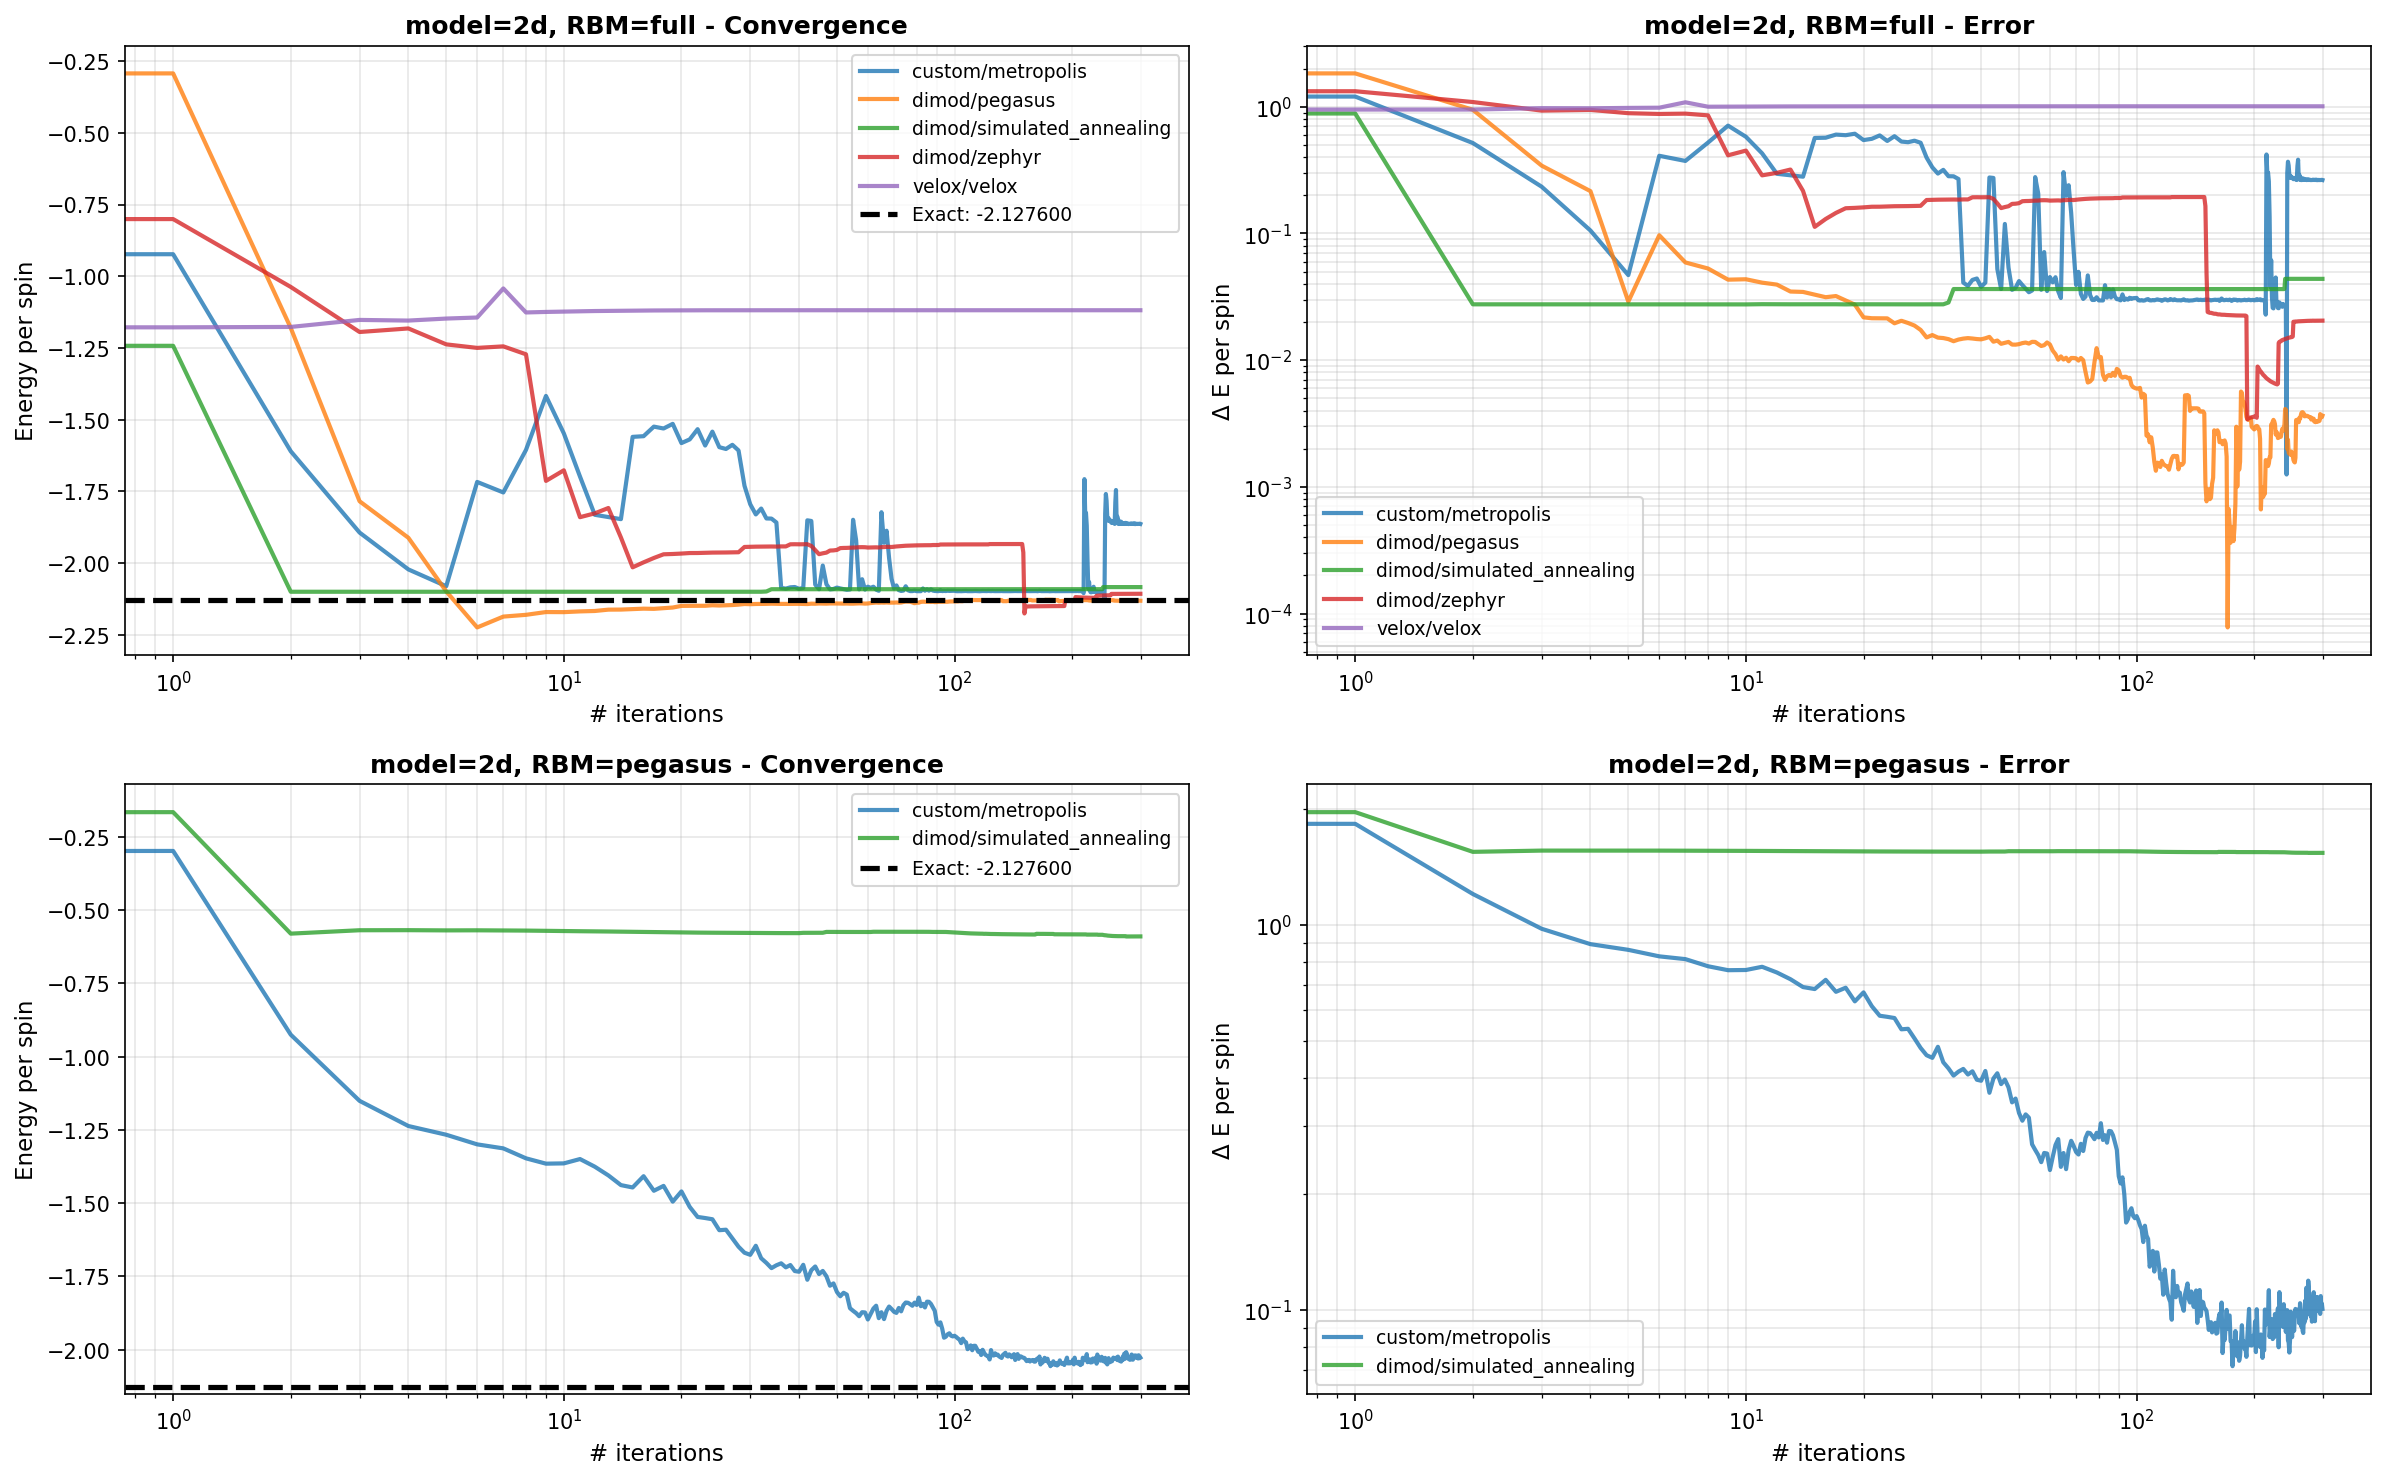
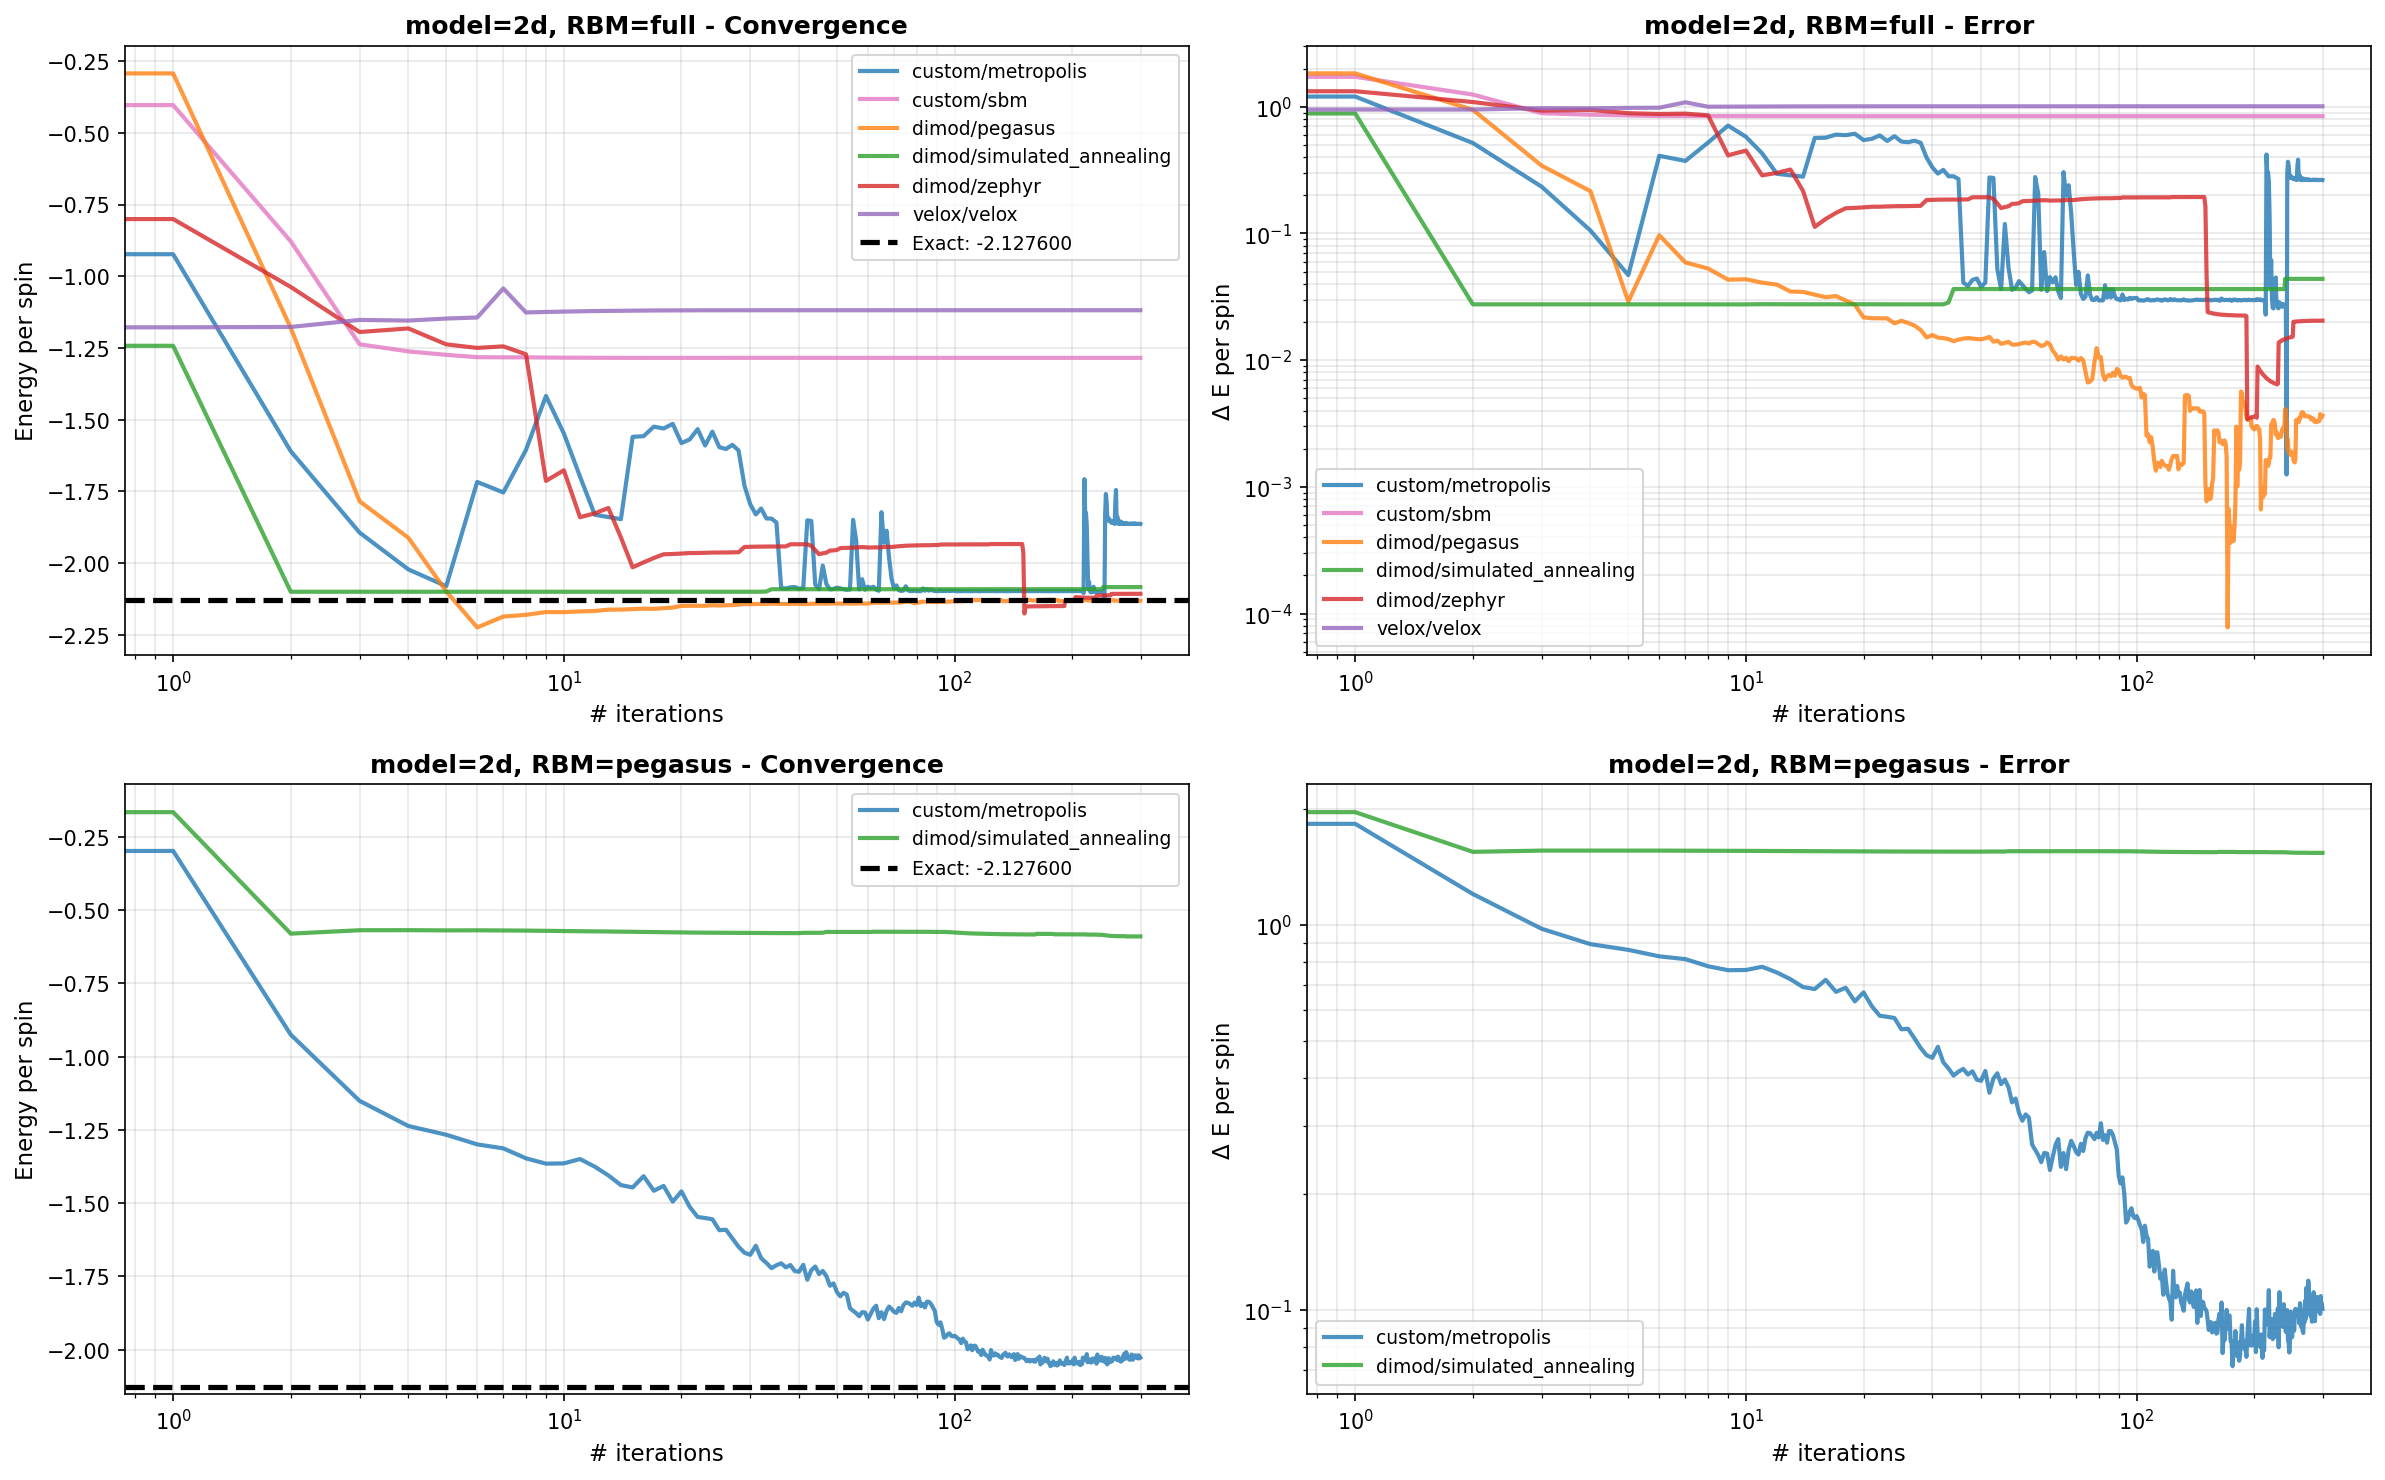
sbm

diff --git a/scripts/plot_results_exact.py b/scripts/plot_results_exact.py
@@ -18,6 +18,15 @@ import sys
 RESULTS_DIR = Path("results")
 PLOTS_DIR = Path("plots")
 
+METHOD_COLORS = {
+    "custom/metropolis":        "#1f77b4",
+    "custom/sbm":               "#e377c2",
+    "dimod/pegasus":            "#ff7f0e",
+    "dimod/simulated_annealing":"#2ca02c",
+    "dimod/zephyr":             "#d62728",
+    "velox/velox":              "#9467bd",
+}
+
 # Reference energies per spin for 2D TFIM (thermodynamic limit)
 # Source: Blöte & Deng (2002), Albuquerque et al. (2010)
 EXACT_ENERGY_2D_PER_SPIN = {
@@ -117,17 +126,9 @@ def plot_convergence_to_exact(results):
     # Get unique (model, N, h, rbm) combinations
     combos = sorted(results.keys())
 
-    # Color palette for different methods
-    colors = {
-        "custom/metropolis": "#1f77b4",
-        "dimod/pegasus": "#ff7f0e",
-        "dimod/simulated_annealing": "#2ca02c",
-        "dimod/zephyr": "#d62728",
-        "velox/velox": "#9467bd",
-    }
-    
+    colors = METHOD_COLORS
     figs = []
-    
+
     for model, N, h, rbm in combos:
         # Compute exact energy per spin
         print(f"Computing exact ground state energy for model={model}, N={N}, h={h}...")
@@ -219,17 +220,9 @@ def plot_rbm_comparison(results):
     for model, N, h, rbm in results.keys():
         nh_groups[(model, N, h)].append(rbm)
     
-    # Color palette for different methods
-    method_colors = {
-        "custom/metropolis": "#1f77b4",
-        "dimod/pegasus": "#ff7f0e",
-        "dimod/simulated_annealing": "#2ca02c",
-        "dimod/zephyr": "#d62728",
-        "velox/velox": "#9467bd",
-    }
-    
+    method_colors = METHOD_COLORS
     figs = []
-    
+
     for (model, N, h), rbm_list in nh_groups.items():
         if len(rbm_list) < 2:
             continue  # Skip if only one RBM type
@@ -319,13 +312,7 @@ def plot_summary_pages(results):
     each cell showing energy convergence and error side by side.
     Saved as plots/{model}/{rbm}/summary.png.
     """
-    colors = {
-        "custom/metropolis": "#1f77b4",
-        "dimod/pegasus": "#ff7f0e",
-        "dimod/simulated_annealing": "#2ca02c",
-        "dimod/zephyr": "#d62728",
-        "velox/velox": "#9467bd",
-    }
+    colors = METHOD_COLORS
 
     # Group (N, h) combos by (model, rbm)
     model_rbm_groups = defaultdict(list)

diff --git a/src/single_experiment.py b/src/single_experiment.py
@@ -36,8 +36,10 @@ def parse_args():
     p.add_argument("--h", type=float, required=True, help="Transverse field strength.")
     p.add_argument("--iterations", type=int, default=300)
     p.add_argument("--rbm", choices=["full", "pegasus", "zephyr"], default="full")
-    p.add_argument("--lsb-sigma", type=float, default=1.0,
-                   help="LSB noise std σ (only used when --sampler lsb)")
+    p.add_argument("--lsb-sigma", type=float, default=0.0,
+                   help="LSB noise std σ (0 = auto-scale to RMS of local fields)")
+    p.add_argument("--lsb-sigma-scale", type=float, default=1.0,
+                   help="Multiplier applied on top of auto-scaled σ")
     p.add_argument("--lsb-steps", type=int, default=100,
                    help="LSB steps per sample M (only used when --sampler lsb)")
     p.add_argument("--sb-mode", choices=["discrete", "ballistic"], default="discrete",
@@ -106,7 +108,11 @@ def main():
             sbm_discrete=args.sbm_discrete,
         )
     elif args.sampler == "lsb":
-        sampler = LSBSampler(sigma=args.lsb_sigma, n_steps=args.lsb_steps)
+        sampler = LSBSampler(
+            sigma=args.lsb_sigma,
+            n_steps=args.lsb_steps,
+            sigma_scale=args.lsb_sigma_scale,
+        )
     else:
         raise ValueError(f"Unknown sampler: {args.sampler}")
 
@@ -135,6 +141,7 @@ def main():
         visualize=False,
         cem=False,
         lsb_sigma=args.lsb_sigma,
+        lsb_sigma_scale=args.lsb_sigma_scale,
         lsb_steps=args.lsb_steps,
         sbm_steps=args.sbm_steps,
         sbm_dt=args.sbm_dt,

diff --git a/src/sampler.py b/src/sampler.py
@@ -495,9 +495,25 @@ class LSBSampler(Sampler):
     temperature.  β_eff is unknown a priori and must be estimated via CEM.
     """
 
-    def __init__(self, sigma: float = 1.0, n_steps: int = 100):
+    def __init__(self, sigma: float = 0.0, n_steps: int = 100, sigma_scale: float = 1.0):
+        # sigma=0 (default) → auto-scale to RMS of local fields each call
         self.sigma = sigma
         self.n_steps = n_steps
+        self.sigma_scale = sigma_scale
+
+    def _adaptive_sigma(self, J: np.ndarray, f: np.ndarray, n_probe: int = 200) -> float:
+        """
+        Estimate σ as sigma_scale × RMS of local fields over random probe configs.
+
+        The LSB noise must be comparable to the local field magnitude so that
+        spins can flip against the field.  For a trained RBM, ||W|| grows during
+        training, so a fixed σ=1 becomes insufficient.  This measures the
+        actual field scale from the current weights.
+        """
+        rng = np.random.default_rng()
+        x = rng.choice(np.array([-1.0, 1.0]), size=(n_probe, J.shape[0]))
+        g = x @ J + f[None, :]
+        return float(np.sqrt(np.mean(g ** 2))) * self.sigma_scale
 
     def _build_ising(self, rbm, beta_x: float = 1.0):
         """
@@ -530,6 +546,9 @@ class LSBSampler(Sampler):
 
         J, f = self._build_ising(rbm, beta_x)
         rng = np.random.default_rng()
+
+        if sigma <= 0:
+            sigma = self._adaptive_sigma(J, f)
 
         # Initialise all chains uniformly in {-1, +1}
         x = rng.choice(np.array([-1.0, 1.0]), size=(n_samples, J.shape[0]))
